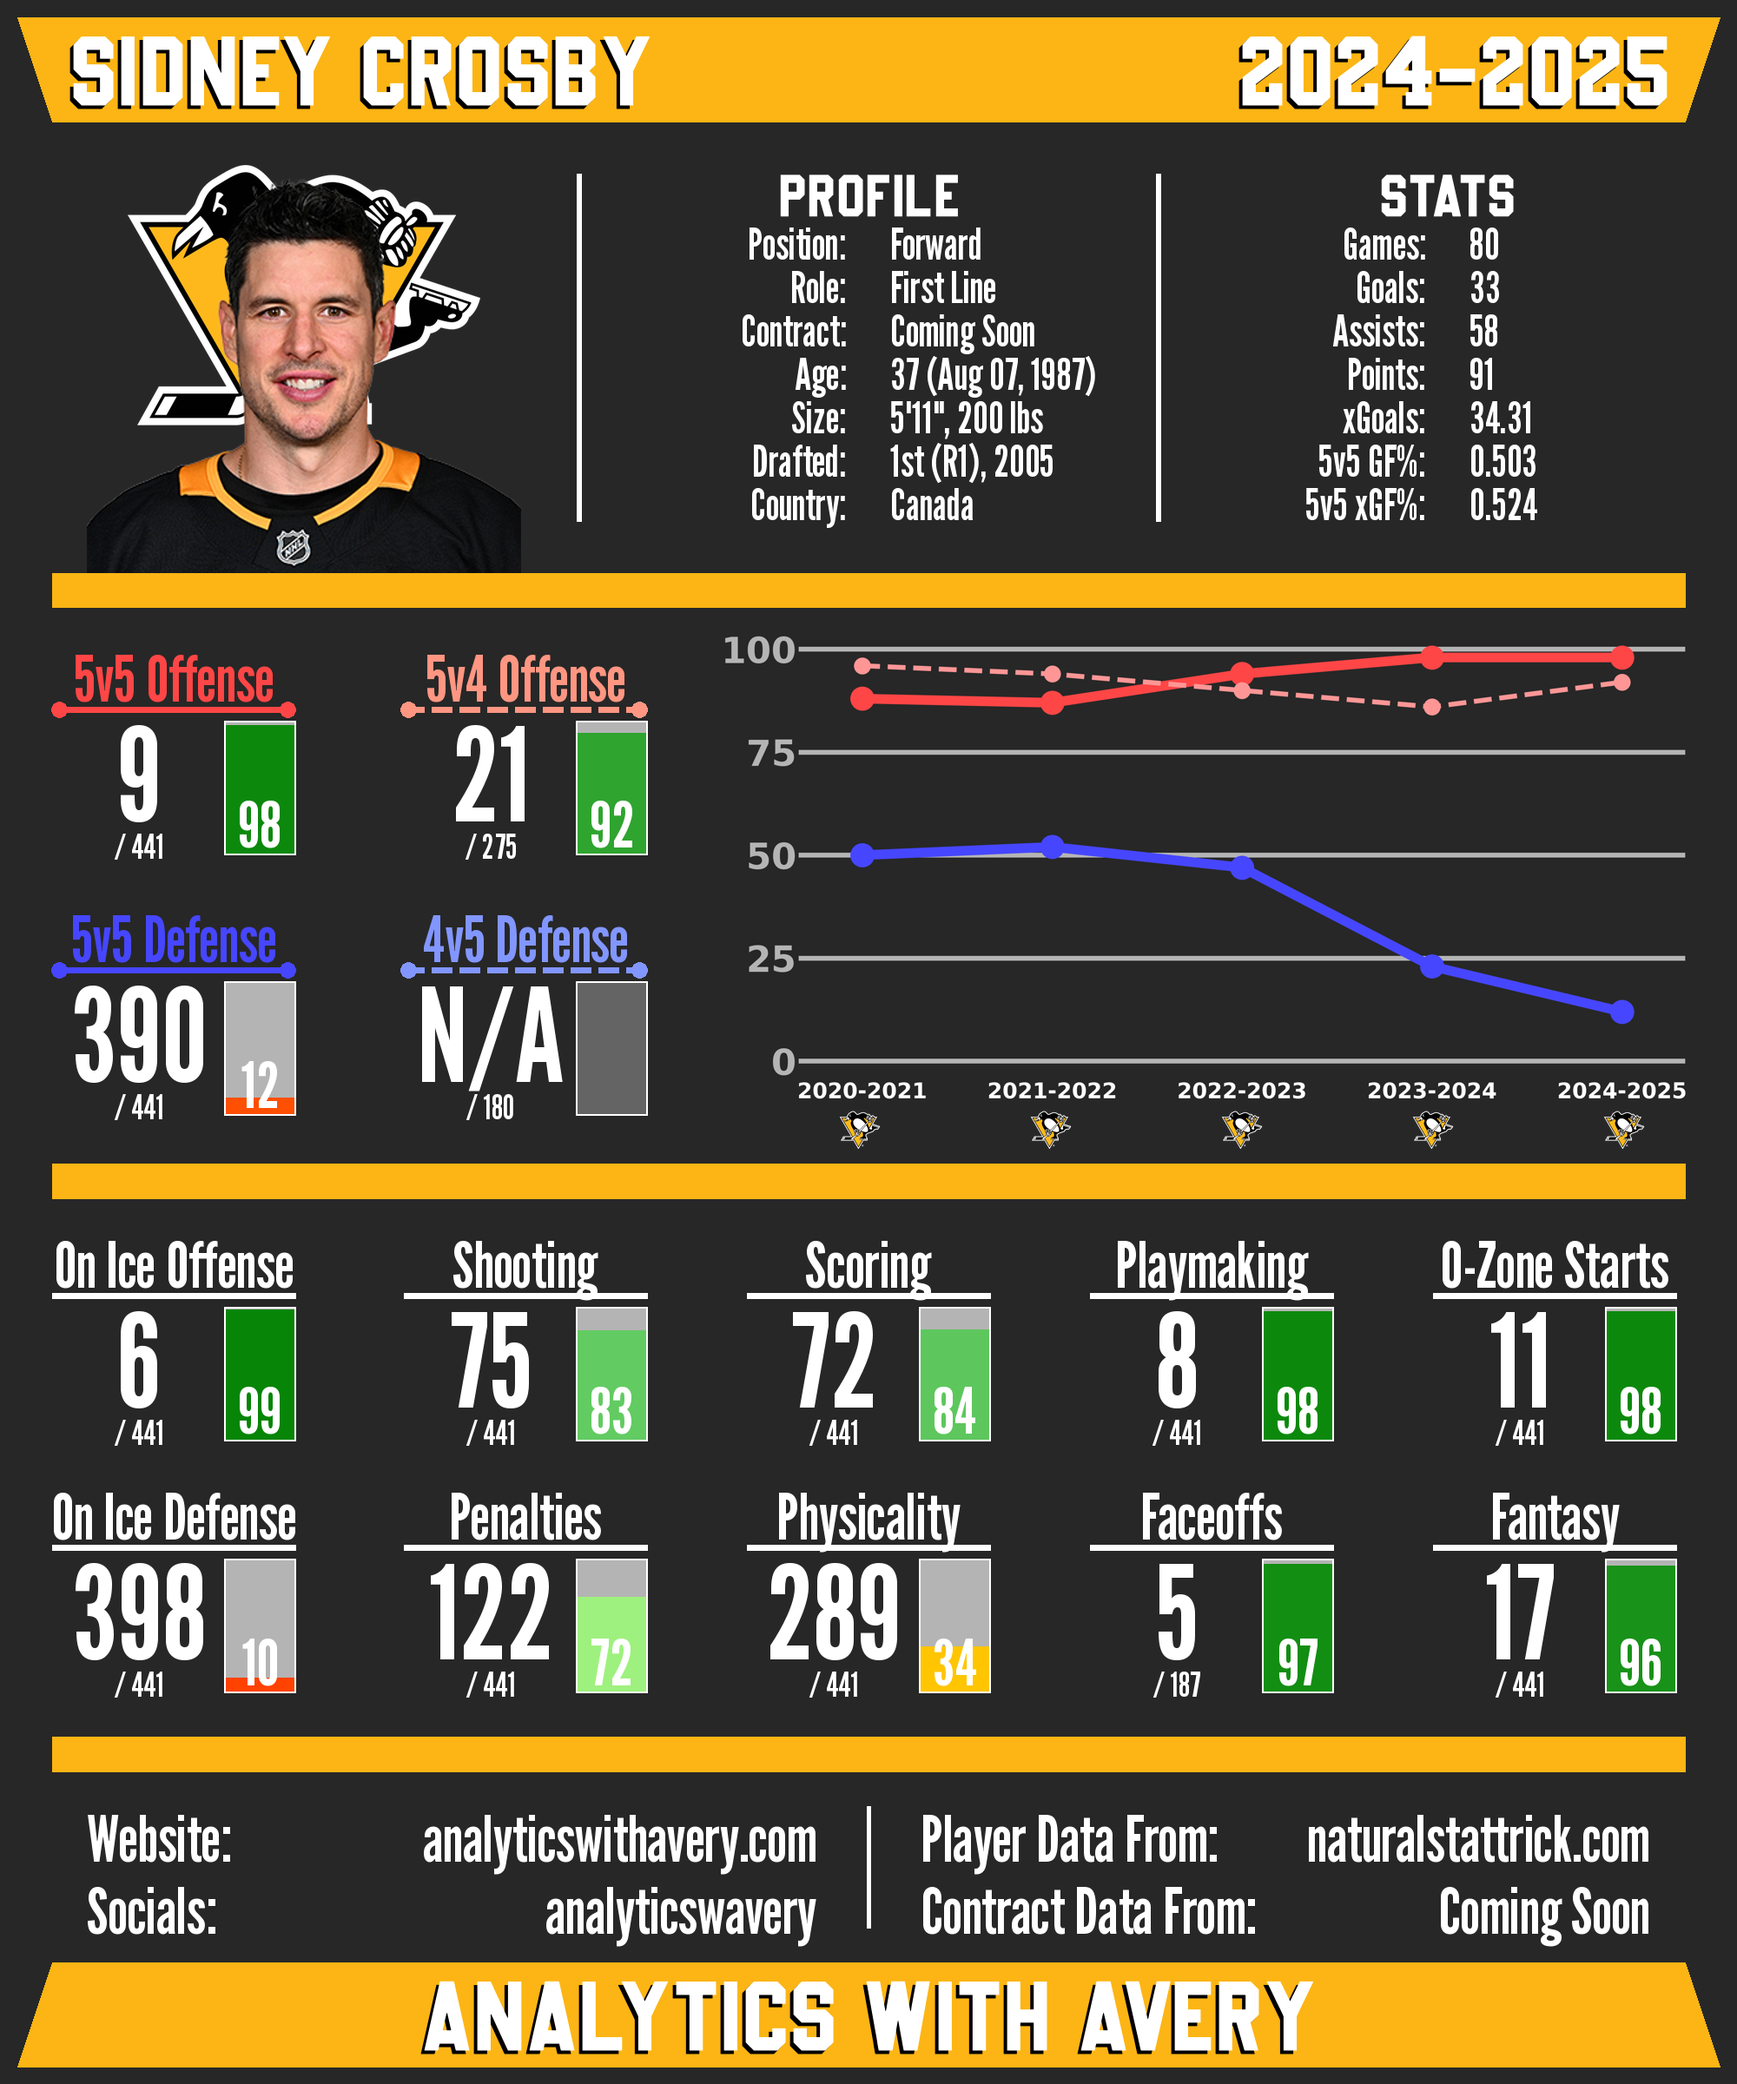
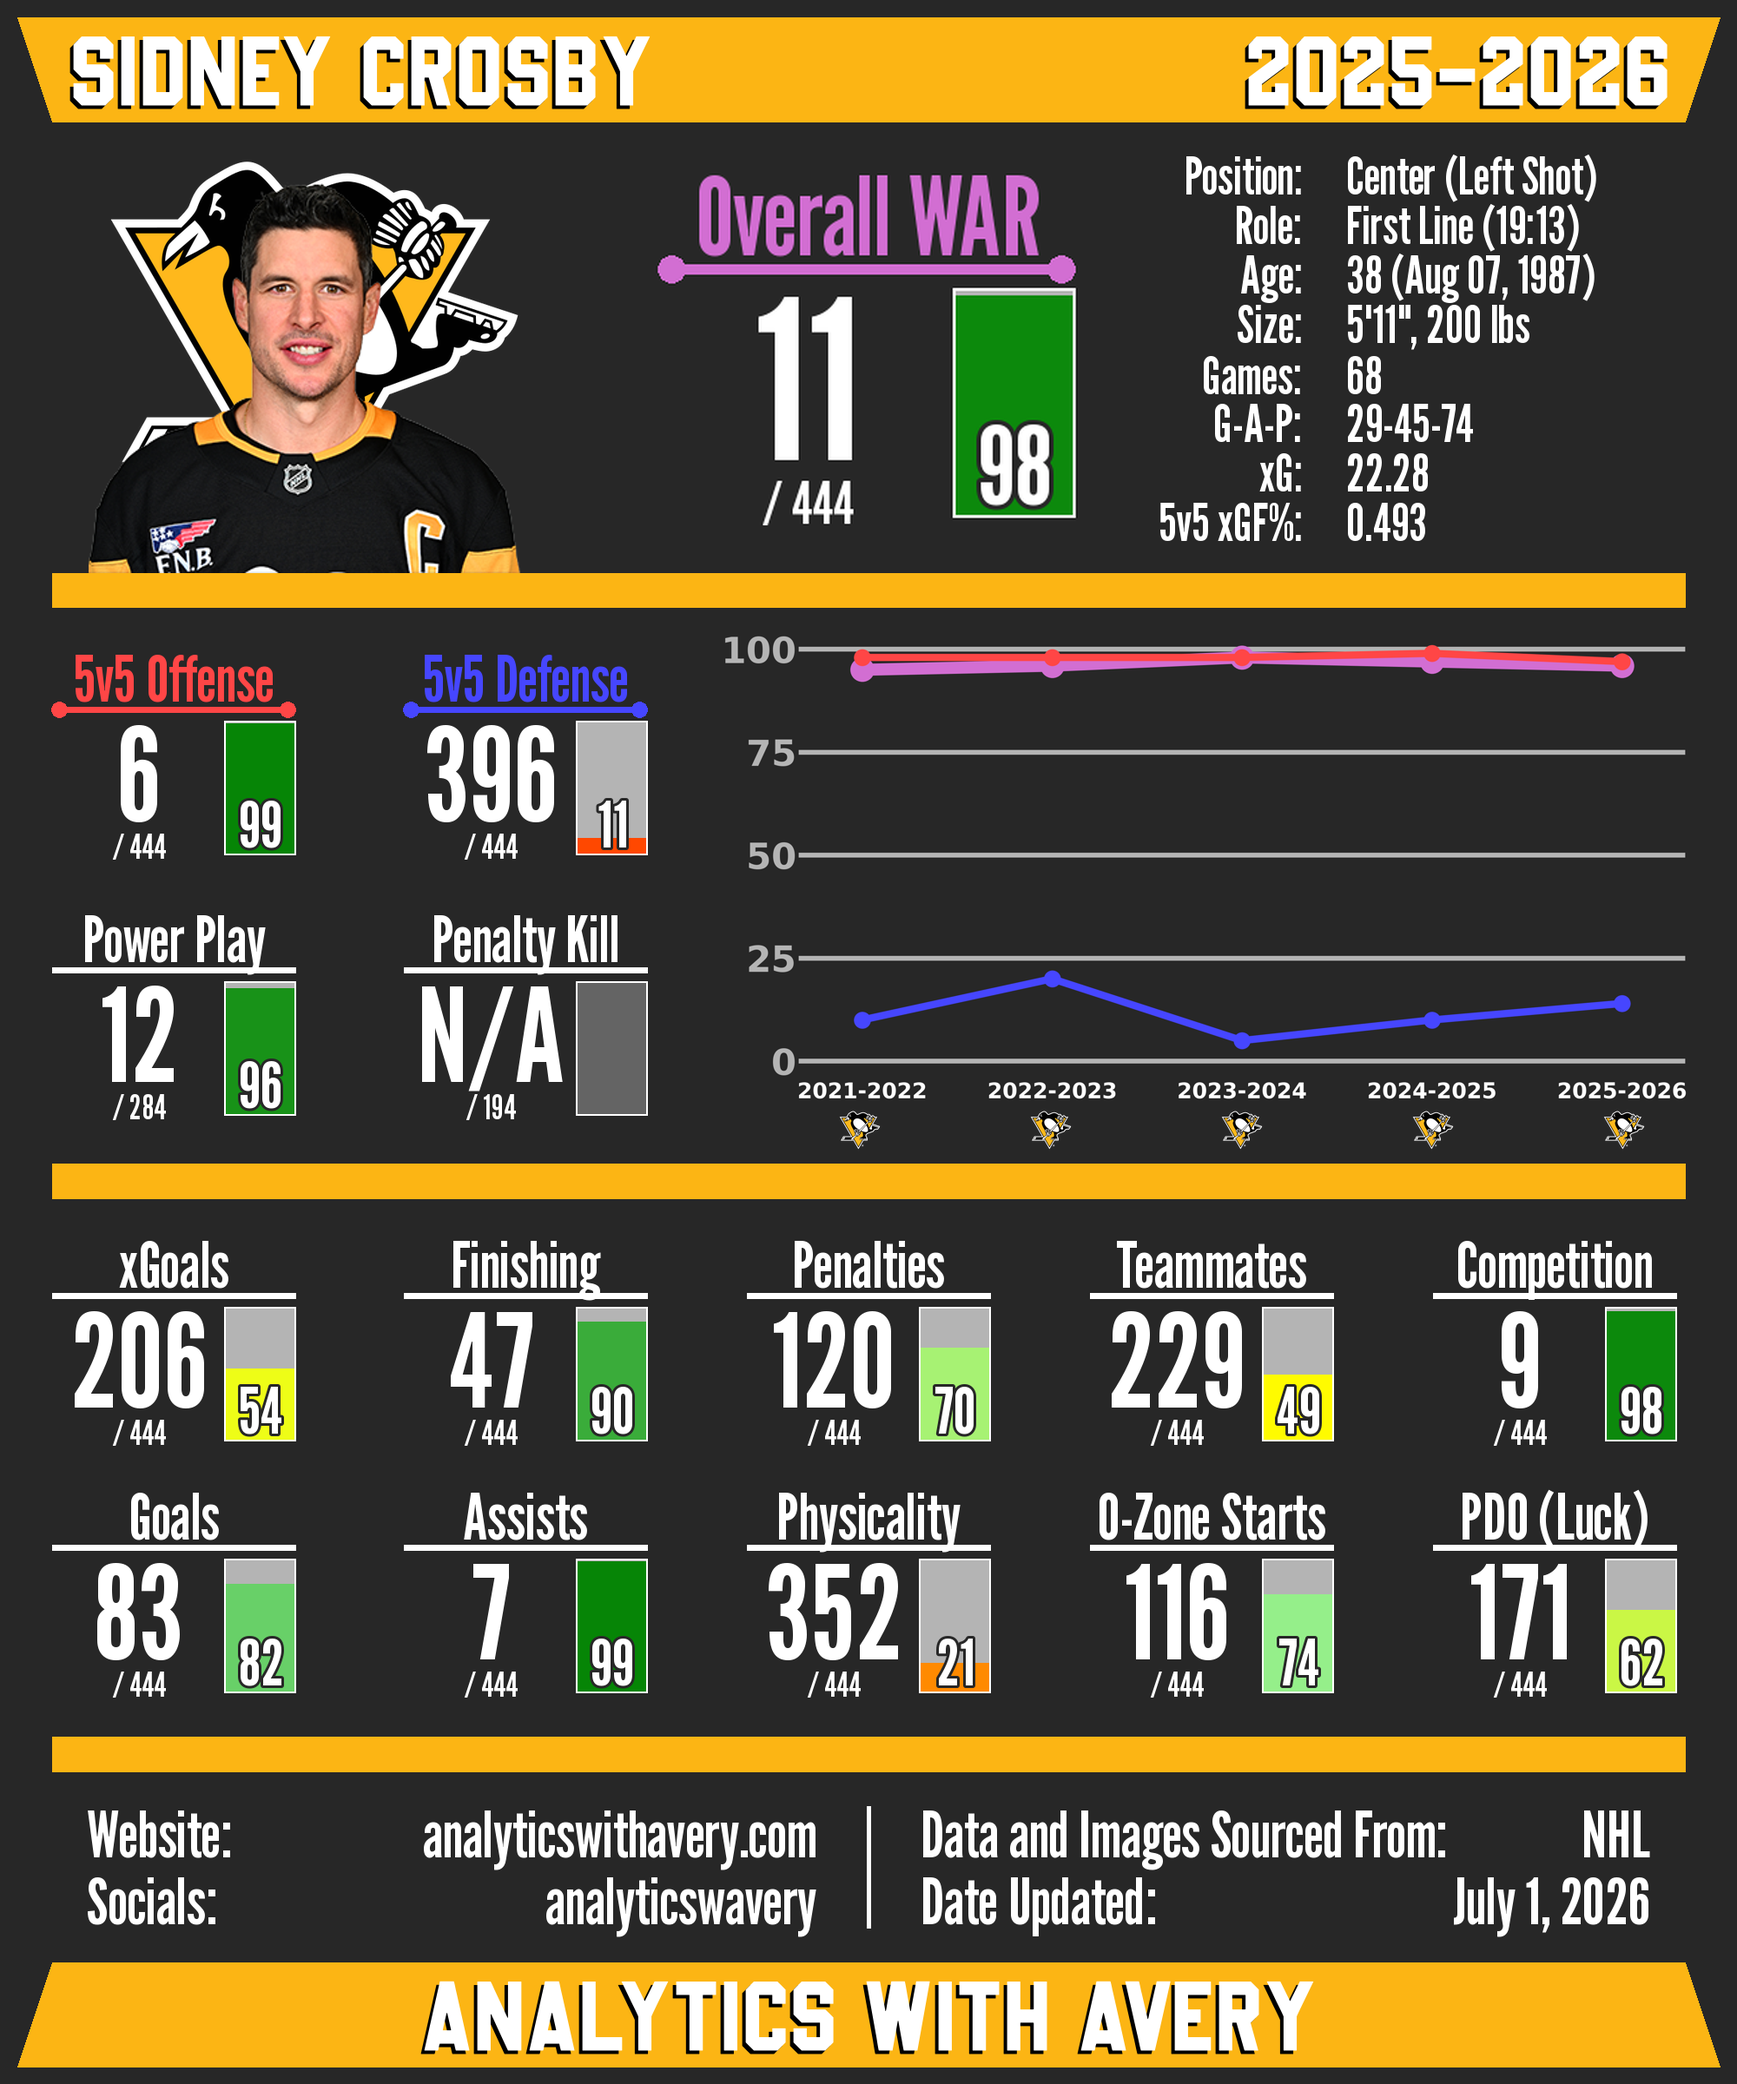
Update README.md

diff --git a/README.md b/README.md
@@ -4,12 +4,14 @@
 An end-to-end data pipeline to scrape NHL player information and statistics, calculate attribute scores and rankings, and generate visually appealing cards for individual players.
 
 ### Features
-* **Natural Stat Trick Scraping:** Collects player bios and situational statistics, including all situation, 5-on-5, 5-on-4, and 4-on-5, for forwards, defensemen, and goalies.
-* **NHL API Integration:** Retrieves player IDs and goalie game logs directly from the NHL API.
+* **NHL API Scraping:** Retrieves player IDs, bios, game schedules, team standings, play-by-play data, shift charts, and goalie game logs directly from the NHL API.
+* **Expected Goals (xG) Model:** Trains its own shot-level xG model (per strength state) from scraped shot event data, used as the response variable for RAPM and to power finishing/goaltending value metrics.
+* **RAPM & WAR:** Computes Regularized Adjusted Plus-Minus (RAPM) from shift-by-shift on-ice lineup data, and converts it (along with finishing and penalty impact) into Wins Above Replacement (WAR).
+* **Quality of Teammates / Quality of Competition:** Computes true TOI-weighted Quality of Teammates (QoT) and Quality of Competition (QoC) scores from shift-by-shift on-ice overlap.
 * **Yearly Attribute Scoring & Rankings:** Generates season-specific player attribute scores and rankings using weighted performance metrics.
-* **Multi-Season Weighted Rankings:** Produces weighted attribute scores by combining current and prior season scores.
-* **Card Data Assembly:** Aggregates player information, statistics, and weighted rankings into structured datasets optimized for visualization.
-* **Player Card Generation:** Generates PNG stat cards featuring player headshots, info, stats, team branding, attribute rankings, percentile bars, and multi-season attribute trend graphs.
+* **Multi-Season Weighted Rankings:** Produces weighted attribute scores by combining current and prior season scores, using weights empirically fit to the combination that best predicts each player's next-season performance.
+* **Card Data Assembly:** Aggregates player information, statistics, and rankings into structured datasets optimized for visualization.
+* **Player Card Generation:** Generates PNG stat cards, including full player cards (headshot, team branding, player info, stats, attribute rankings, percentile bars, and multi-season trend graphs).
 
 <p align="center">
   <img src="example_card.png" alt="Sidney Crosby Player Card" width="50%" />
@@ -38,34 +40,37 @@ python -m venv venv
 source venv/bin/activate  # On Windows: venv\\Scripts\\activate
 ```
 
-3. **Install dependencies:**
+3. **Install the package (and its dependencies):**
+
+```bash
+pip install -e .
+```
+
+A requirements.txt is also included if it is prefered to install from that directly
 
 ```bash
 pip install -r requirements.txt
 ```
 
-4. **Install package locally:**
-```bash
-pip install -e .
-```
 
 
 ## Usage
 The typical workflow is:
-1. Scrape and clean raw data
-2. Generate rankings and assemble card data
+1. Scrape raw data
+2. Process raw data into scores and rankings, and assemble card data
 3. Generate visual player stat cards
 
 
-### Step 1: Collect & Clean Data
+### Step 1: Collect Data
 This step scrapes and stores all raw data required for rankings and card generation.
 
-Open src/player_card_project/utils/constants.py and set the seasons you want to process (ideally have at least three consecutive seasons in the format 'YYYY-YYYY', ex: '2024-2025'):
+Open src/player_card_project/constants.py and set the seasons you want to process (ideally have at least three consecutive seasons in the format 'YYYY-YYYY', ex: '2024-2025'):
 ```python
 # Seasons to scrape stats and bio data for
-DATA_SEASONS = ['2024-2025', '2023-2024', '2022-2023', '2021-2022', '2020-2021', '2019-2020',
-                '2018-2019', '2017-2018', '2016-2017', '2015-2016', '2014-2015', '2013-2014',
-                '2012-2013', '2011-2012', '2010-2011', '2009-2010', '2008-2009', '2007-2008']
+DATA_SEASONS = ['2009-2010', '2010-2011', '2011-2012', '2012-2013', '2013-2014',
+                '2014-2015', '2015-2016', '2016-2017', '2017-2018', '2018-2019',
+                '2019-2020', '2020-2021', '2021-2022', '2022-2023', '2023-2024',
+                '2024-2025', '2025-2026']
 ```
 
 Execute the following script:
@@ -74,57 +79,54 @@ python -m player_card_project.collect_data
 ```
 
 This script will:
-* Scrape team logos from NHL.com (only needs to be collected once, so after the first run, this step can be commented out in src/collect_data.py)
-* Scrape player bios and situational statistics from Natural Stat Trick
-* Retrieve player IDs and goalie game logs from the NHL API
+* Scrape card fonts from the web (only needs to be collected once, so after the first run, this step can be commented out in src/player_card_project/collect_data/__main__.py)
+* Scrape team logos from NHL.com (also only needs to be collected once)
+* Retrieve player IDs, bios, game schedules, and team standings from the NHL API
+* Scrape play-by-play data (goals, shot events, faceoffs, penalty events, and possession events) from the NHL API
+* Scrape shift charts from the NHL API, used to compute quality of teammates/competition and the project's own xG/RAPM/WAR models
+* Scrape boxscore GP/TOI data and goalie game logs from the NHL API
 * Save all raw data locally for downstream processing
 
-Note: Depending on the number of seasons, collecting data could take several minutes due to the implemented request delays to respect Natural Stat Trick’s servers.
+Note: Depending on the number of seasons, collecting data could take hours due to the implemented request delays to respect the NHL API's servers.
 
-All scraped data CSV files will be saved to various folders in 'data/player_card_data/scraped_data', and team logo SVGs will be saved to the 'data/assets/team_logos' folder.
+All scraped data CSV files will be saved to various folders in 'data/player_card_data/raw_data', and team logo SVGs will be saved to the 'data/assets/team_logos' folder.
 
 
 ### Step 2: Generate Rankings and Card Data
-This step transforms raw data into player rankings and structured card-ready datasets.
-
-Open utils/constants.py and set the seasons you want to process (Natural Stat Trick's earliest season is 2007-2008):
-```python
-# Seasons to put together card data for
-CARD_SEASONS = ['2024-2025', '2023-2024', '2022-2023', '2021-2022', '2020-2021', '2019-2020',
-                '2018-2019', '2017-2018', '2016-2017', '2015-2016', '2014-2015', '2013-2014',
-                '2012-2013', '2011-2012', '2010-2011', '2009-2010', '2008-2009', '2007-2008']
-```
+This step transforms raw data into player rankings and structured card-ready datasets, using the same DATA_SEASONS set in Step 1.
 
 Execute the following script:
 ```bash
-python -m player_card_project.prepare_data
+python -m player_card_project.process_data
 ```
 
 This script will:
+* Train (or reuse) this project's own expected goals (xG) model from scraped shot event data
+* Process raw shift data into teammate/competition TOI overlap matrices
+* Assemble per-season, per-position player stats
+* Generate RAPM (Regularized Adjusted Plus-Minus) and WAR (Wins Above Replacement) scores
 * Generate season-specific attribute scores and rankings
 * Create weighted attribute scores and rankings using current and prior seasons
 * Assemble all player data required for card generation
 
-Generated ranking CSV files will be saved to various folders in 'data/player_card_data/ranking_data', and card data CSV files will be saved to the 'data/player_card_data/card_data' folder.
+Generated data will be saved to various folders in 'data/player_card_data/processed_data', and card data CSV files will be saved to the 'data/player_card_data/card_data' folder.
 
 
 ### Step 3: Generate Cards
 Once rankings and card data are prepared, this step generates visual player stat cards.
 
-Call functions in src/generate_cards.py to choose what cards to generate:
+Call functions in src/player_card_project/generate_cards/__main__.py to choose what cards to generate:
 ```python
-# Different functions for generating player cards:
-card_generation.make_player_card('Sidney Crosby', '2024-2025', 'F', 'dark')
-card_generation.make_team_player_cards('TOR', '2024-2025', 'light')
-card_generation.make_all_position_player_cards('2024-2025', 'G', 'dark')
-card_generation.make_all_player_cards('2024-2025', 'light')
-```
+card_generation.make_player_card('Sidney Crosby', '2025-2026', 'F', 'dark')
 
-Available card generation options include:
-* Single player cards
-* Full team card sets
-* Position-specific league-wide cards
-* Full league card generation
+"""
+Parameters:
+  Player Full Name ('First Last')
+  Season ('YYYY-YYYY')
+  Position Code ('F', 'D', or 'G')
+  Card Mode ('Light' or 'Dark')
+"""
+```
 
 Execute the following script:
 ```bash
@@ -133,13 +135,14 @@ python -m player_card_project.generate_cards
 
 Generated card PNGs will be saved to the 'player_cards' folder.
 
+
 ## License
 This project is licensed under the GNU General Public License v3.0. See the LICENSE file for details.
 
 
 ## Acknowledgments
-* Data sourced from [Natural Stat Trick](https://www.naturalstattrick.com) and the NHL API.
-* Project inspiration: [HockeyStats.com](https://hockeystats.com/cards/player-cards) & [RonoHockey](https://ronohockey.com/cards/players/single-season/).
+* Data sourced from the NHL API.
+* Project inspiration: [HockeyStats.com](https://hockeystats.com/cards/player-cards).
 
 
 ## Disclaimer
